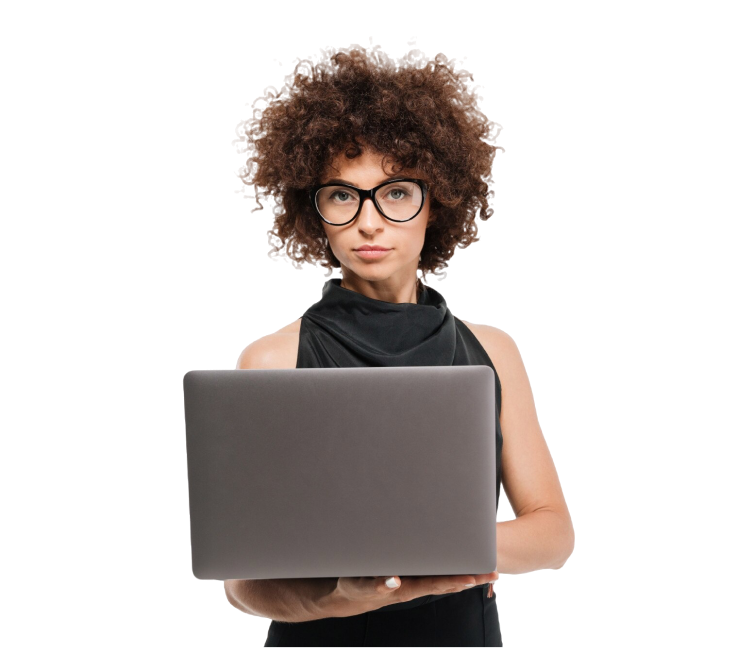
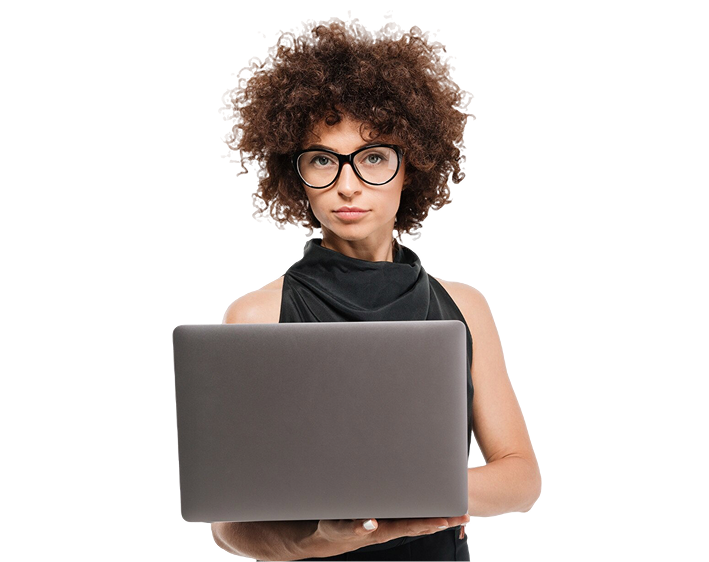
customer review is responsive

diff --git a/components/customer-reviews.tsx b/components/customer-reviews.tsx
@@ -34,39 +34,46 @@ const Data = [
 
 const Card = ({ image, review, name, role }: CardProps) => {
     return (
-        <div className="relative bg-[#F0F8FF] border-[#0F52BA]/20 flex flex-col py-4 px-2 rounded-[5px] border w-[331px] h-[250px] " >
-            <div className="flex flex-col gap-y-[20px] h-full ">
+        <div className=" bg-[#F0F8FF] border-[#0F52BA]/20 flex flex-col py-4 px-2 rounded-[5px] border w-[331px] h-[270px] ">
+            <div className="flex flex-col gap-y-5 h-full">
                 <Image
                     src={Rating}
                     width={84}
                     height={16}
                     alt="rating"
+                    className="sm:w-20 sm:h-4"
                 />
-                <p className="font-normal text-base text-[#343A40] w-[310px] " >{review} </p>
-                <div className="mb-[10px] flex gap-x-[30px] items-center bottom-0 ">
-                    <Image
-                        src={image}
-                        width={50}
-                        height={50}
-                        alt="review-1"
-                    />
-                    <div className="flex flex-col justify-between ">
-                        <p className="font-semibold text-sm ">{name}</p>
-                        <p className="font-normal text-sm">{role}</p>
+                <p className="font-normal text-base text-[#343A40] w-[310px] sm:w-full">
+                    {review}
+                </p>
+                <div className="mb-2.5 flex gap-x-7.5 items-center bottom-0 sm:gap-x-4">
+                    {image && (
+                        <Image
+                            src={image}
+                            width={50}
+                            height={50}
+                            alt="review-1"
+                            className="sm:w-10 sm:h-10"
+                        />
+                    )}
+                    <div className="flex flex-col justify-between">
+                        <p className="font-semibold text-sm sm:text-xs">{name}</p>
+                        <p className="font-normal text-sm sm:text-xs">{role}</p>
                     </div>
                 </div>
             </div>
         </div>
-    )
-}
+    );
+};
+
 const CustomerReviews = () => {
     return (
         <div className="mt-[100px]">
-            <div className=" flex flex-col items-center justify-center gap-y-5 text-center ">
-                <p className="font-medium text-4xl text-[#0F52BA] ">What our customers say</p>
-                <p className="font-normal text-lg text-[#292929] w-[650px]  ">Eduhive transforms record management, ensuring efficiency, security, and seamless collaboration, our customers trust and love it.</p>
+            <div className=" flex flex-col items-center justify-center gap-y-3 md:gap-y-5 text-center ">
+                <p className="font-medium text-2xl md:text-3xl lg:text-4xl text-[#0F52BA] ">What our customers say</p>
+                <p className="font-normal text-base lg:text-lg text-[#292929] w-full md:w-[650px]  ">Eduhive transforms record management, ensuring efficiency, security, and seamless collaboration, our customers trust and love it.</p>
             </div>
-            <div className="grid grid-cols-3 items-center justify-between gap-x-5 mt-[30px] ">
+            <div className="flex flex-cols-3 items-center justify-between gap-x-5 mt-[30px] overflow-x-scroll md:overflow-auto ">
 
                 {Data.map((data) => (
                     <Card
@@ -78,7 +85,7 @@ const CustomerReviews = () => {
                     />
                 ))}
             </div>
-         
+
         </div>
     );
 }

diff --git a/components/hero.tsx b/components/hero.tsx
@@ -1,13 +1,12 @@
 import Image from "next/image";
 
 import { Button } from "./ui/button";
-import HeroImage from "@/public/Images/hero-image.png"
-import HeroUnderlay from "@/public/Images/hero-underlay.png"
+import HeroImage from "@/public/Images/hero-image.png";
 import Link from "next/link";
 
 const Hero = () => {
     return (
-        <div className="relative flex flex-col md:flex-row justify-between md:items-center mt-[50px] mb-[100px] px-4 md:px-8 font-poppins ">
+        <div className="relative flex flex-col md:flex-row justify-between md:items-center mt-[50px] mb-[100px] px-2 md:px-8 font-poppins ">
             {/* Text Section */}
             <div className="flex flex-col md:w-1/2 items-start text-left">
                 <p className="font-semibold text-3xl sm:text-4xl md:text-5xl leading-[50px] sm:leading-[60px] md:leading-[75px]">
@@ -39,15 +38,9 @@ const Hero = () => {
                     width={560}
                     height={370}
                     alt="Hero Image"
-                    className="w-full lg:w-[970px] lg:h-[640px] object-contain overflow-hidden bottom-0 "
+                    className="w-full lg:w-[970px] lg:h-[640px] object-contain lg:-right-10 overflow-hidden bottom-0 "
                 />
-                <Image
-                    src={HeroUnderlay}
-                    width={200}
-                    height={200}
-                    alt="Hero Image"
-                    className=" absolute -z-10  sm:w-[250px] sm:h-[250px] md:w-[330px] md:h-[330px] object-contain lg:bottom-[60px]"
-                />
+               
             </div>
         </div>
     );

diff --git a/components/footer.tsx b/components/footer.tsx
@@ -11,7 +11,7 @@ const Footer = () => {
     }
 
     return (
-        <div className="bg-[#0F52BA] text-white px-[30px] md:px-[100px] py-[40px] md:py-[80px] mt-[90px] ">
+        <div className="bg-[#0F52BA] text-white px-[30px] md:px-[70px] py-[40px] md:py-[80px] mt-[90px] ">
 
             <div className="flex flex-col md:flex-row justify-between mb-[40px] ">
                 <div className="flex flex-col">
